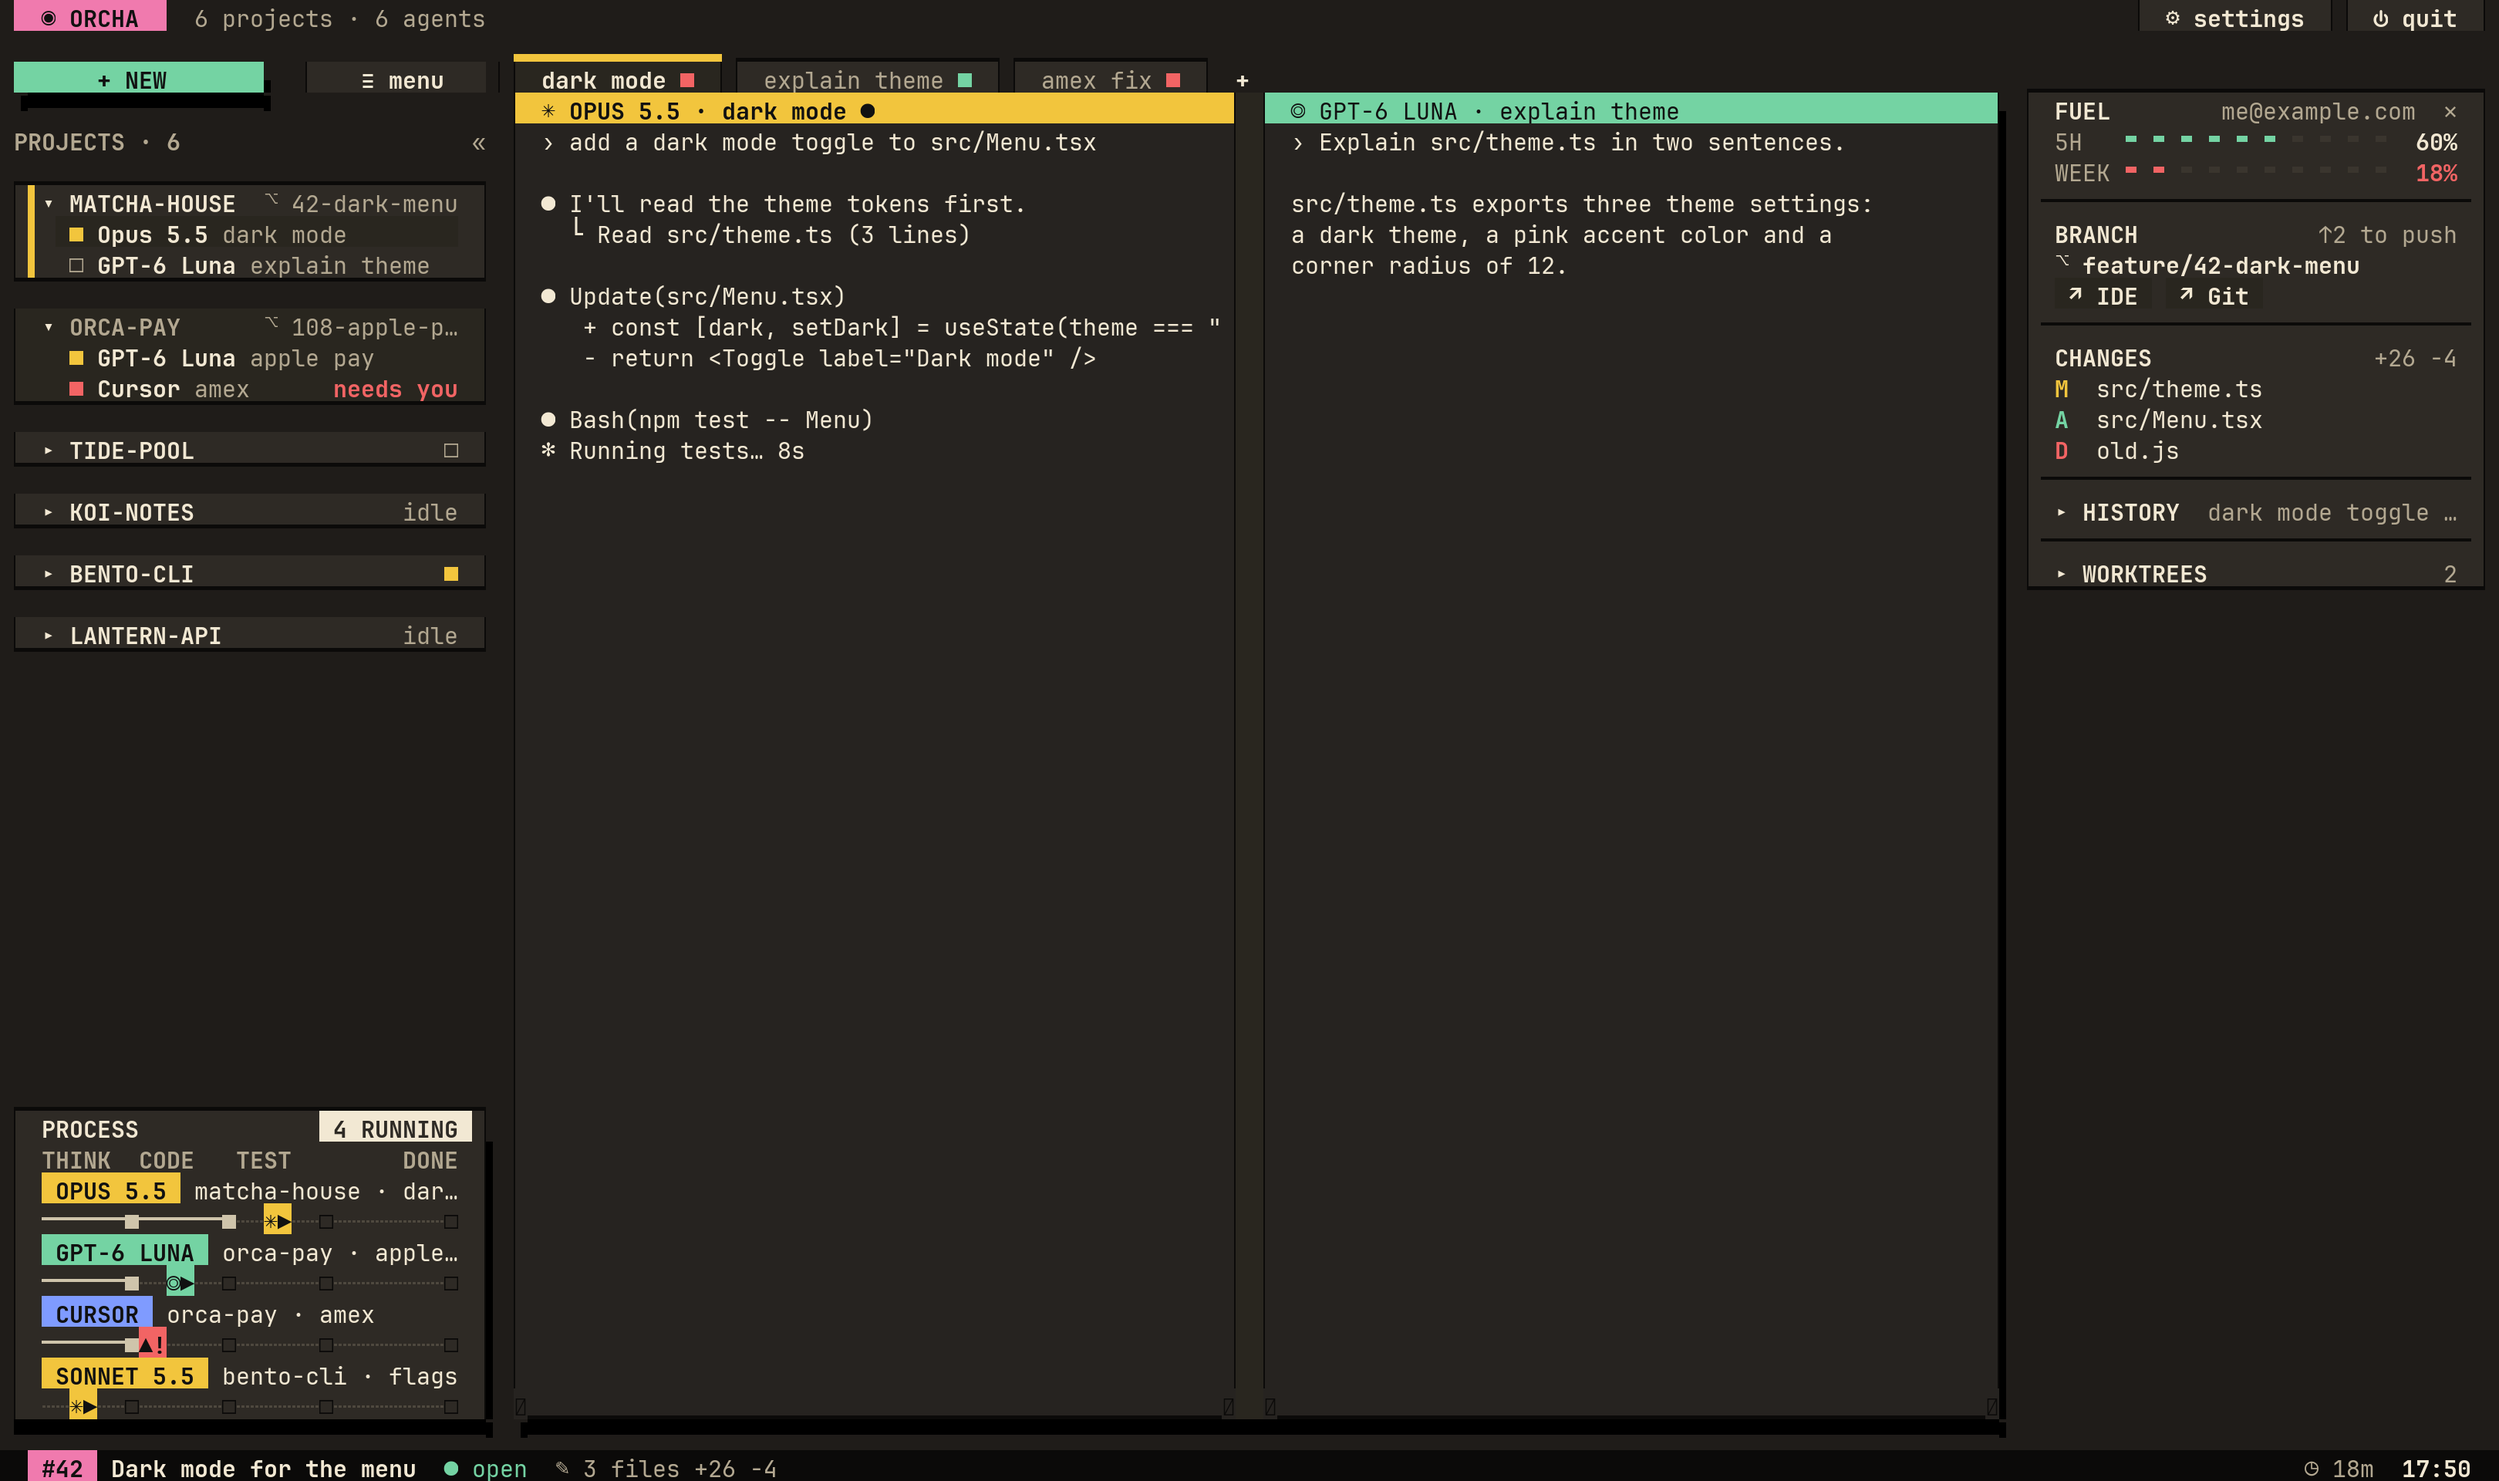
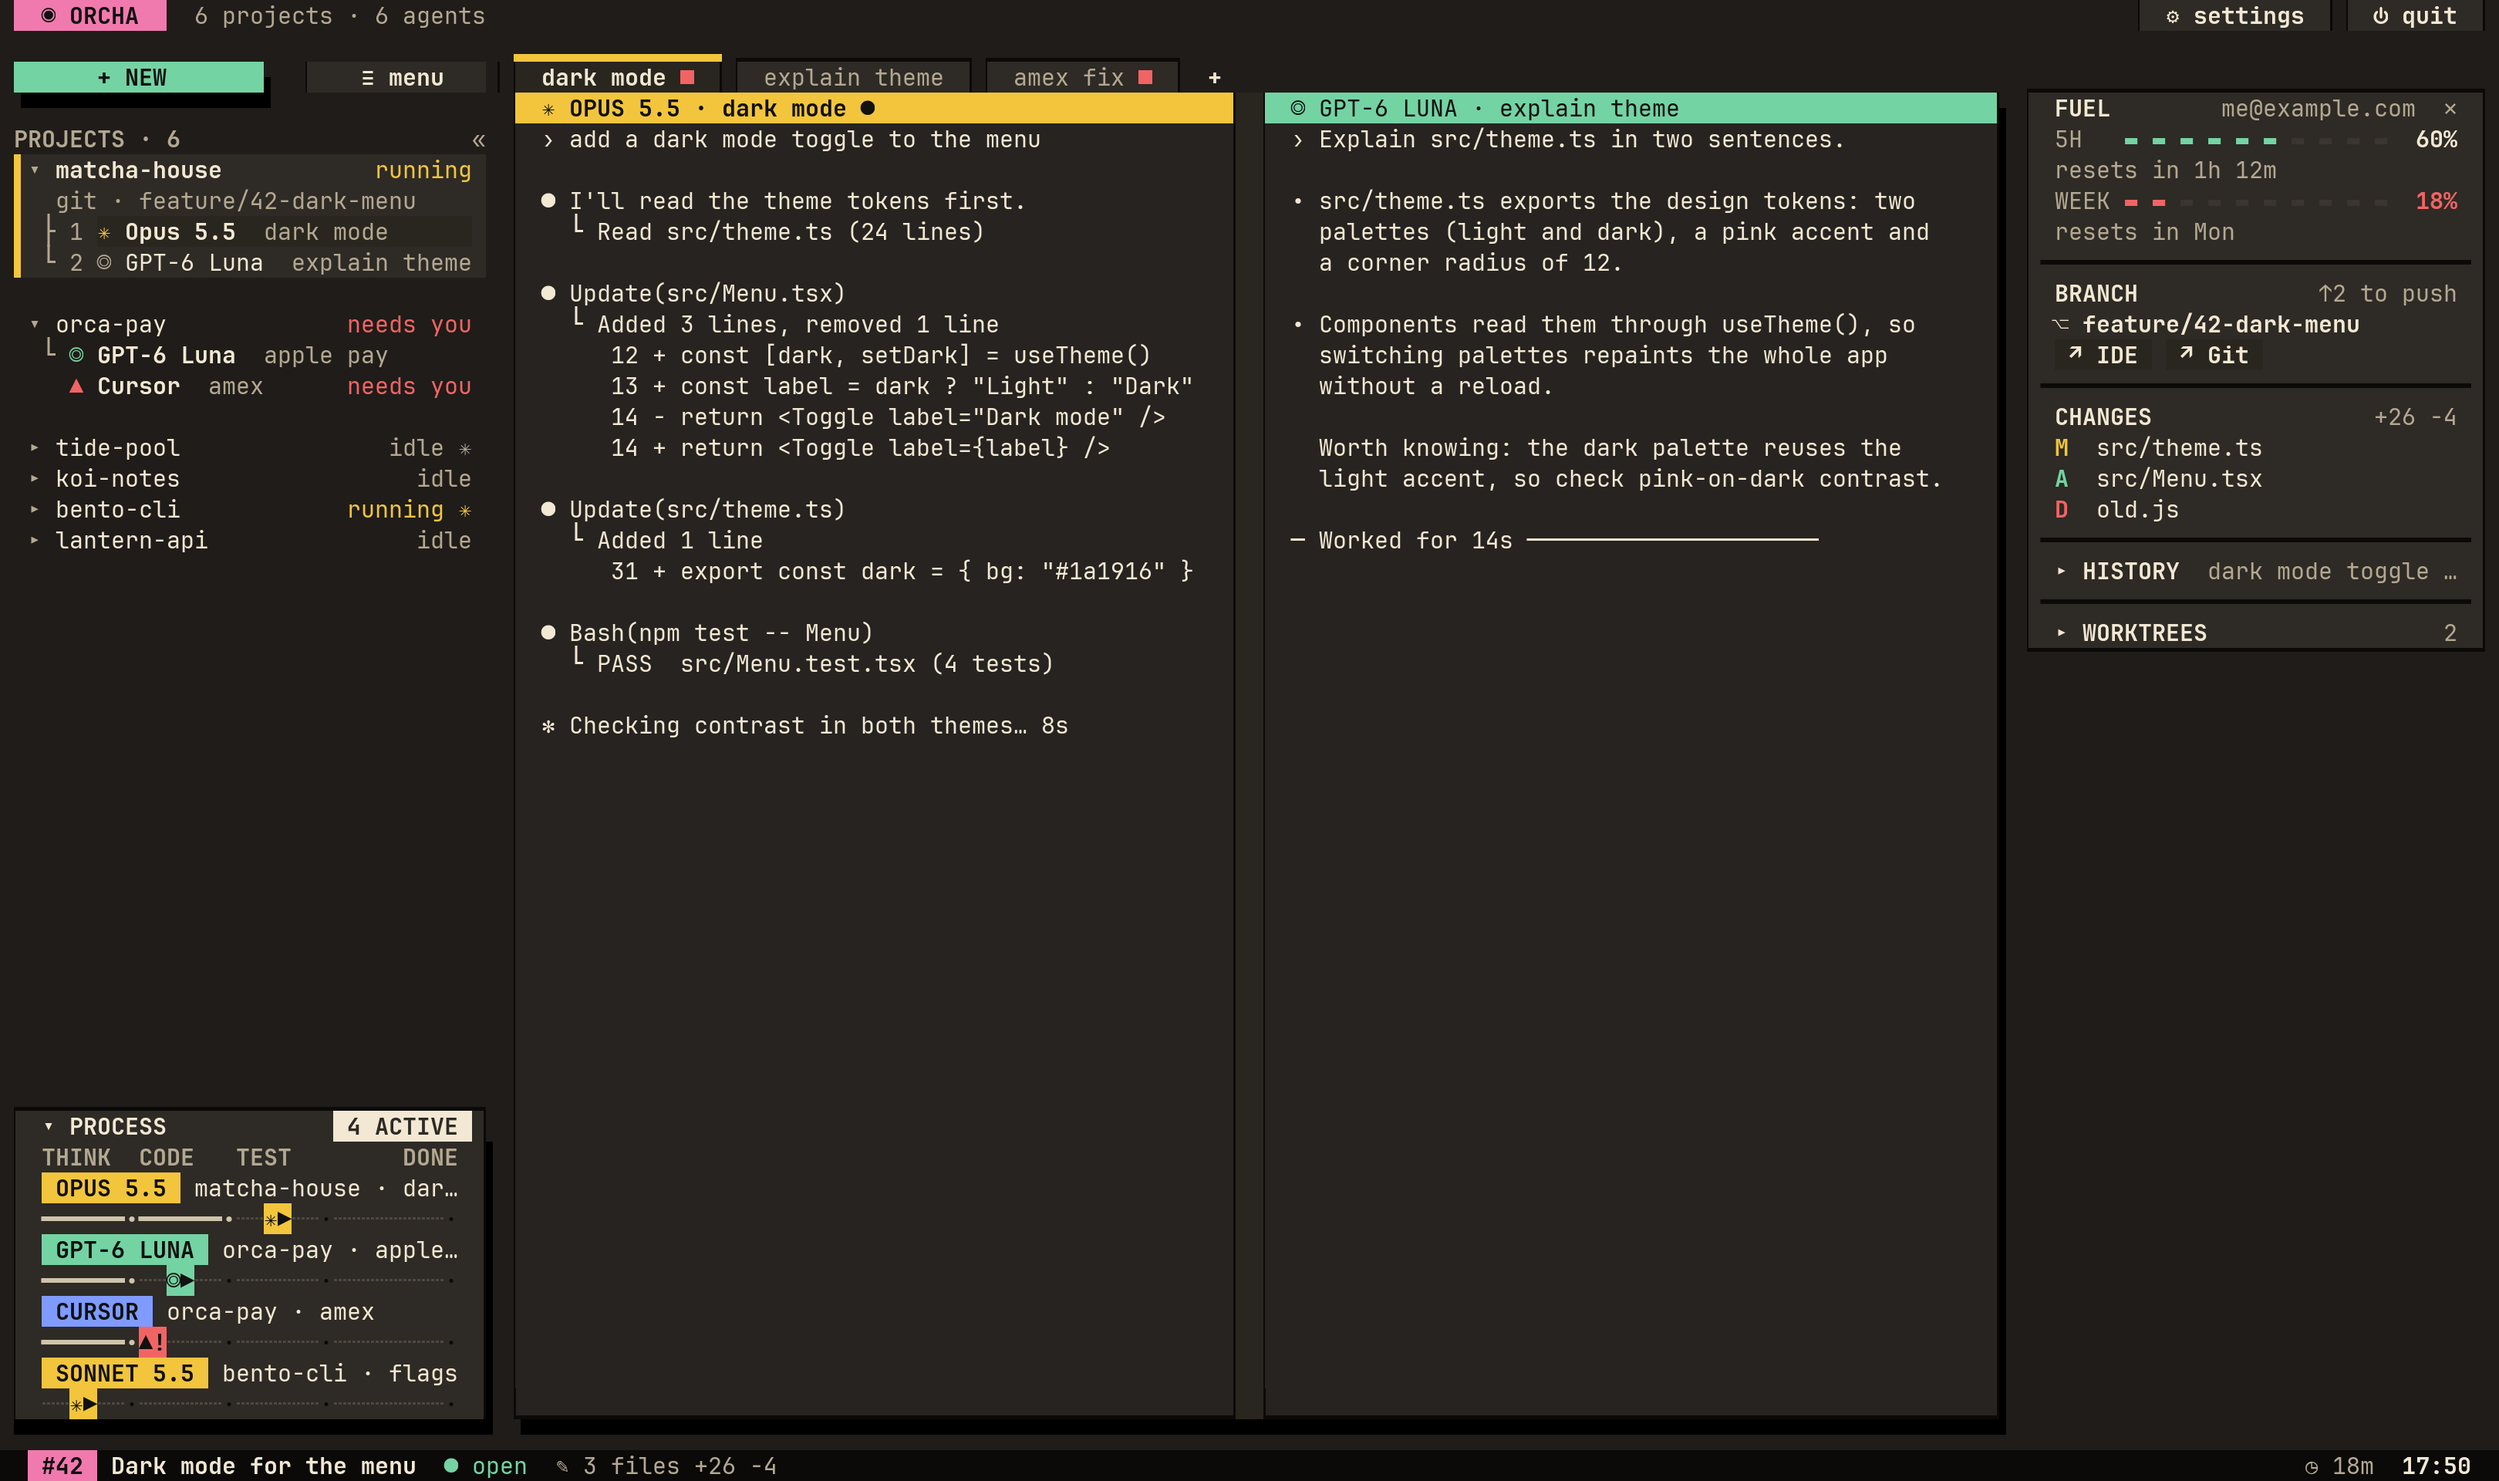
docs: fresh screenshots with the tab tree and open-with popup

diff --git a/src/client/shell/tests/orcha_layout.rs b/src/client/shell/tests/orcha_layout.rs
@@ -439,17 +439,26 @@ fn preview_surface(size: Rect) -> PaneSurfaceFrame {
             "pane_1",
             Rect::new(0, 0, half.saturating_sub(1), size.height),
             vec![
-                "› add a dark mode toggle to src/Menu.tsx",
+                "› add a dark mode toggle to the menu",
                 "",
                 "● I'll read the theme tokens first.",
-                "  └ Read src/theme.ts (3 lines)",
+                "  └ Read src/theme.ts (24 lines)",
                 "",
                 "● Update(src/Menu.tsx)",
-                "   + const [dark, setDark] = useState(theme === \"dark\")",
-                "   - return <Toggle label=\"Dark mode\" />",
+                "  └ Added 3 lines, removed 1 line",
+                "     12 + const [dark, setDark] = useTheme()",
+                "     13 + const label = dark ? \"Light\" : \"Dark\"",
+                "     14 - return <Toggle label=\"Dark mode\" />",
+                "     14 + return <Toggle label={label} />",
+                "",
+                "● Update(src/theme.ts)",
+                "  └ Added 1 line",
+                "     31 + export const dark = { bg: \"#1a1916\" }",
                 "",
                 "● Bash(npm test -- Menu)",
-                "✻ Running tests… 8s",
+                "  └ PASS  src/Menu.test.tsx (4 tests)",
+                "",
+                "✻ Checking contrast in both themes… 8s",
             ],
         ),
         (
@@ -463,9 +472,18 @@ fn preview_surface(size: Rect) -> PaneSurfaceFrame {
             vec![
                 "› Explain src/theme.ts in two sentences.",
                 "",
-                "src/theme.ts exports three theme settings:",
-                "a dark theme, a pink accent color and a",
-                "corner radius of 12.",
+                "• src/theme.ts exports the design tokens: two",
+                "  palettes (light and dark), a pink accent and",
+                "  a corner radius of 12.",
+                "",
+                "• Components read them through useTheme(), so",
+                "  switching palettes repaints the whole app",
+                "  without a reload.",
+                "",
+                "  Worth knowing: the dark palette reuses the",
+                "  light accent, so check pink-on-dark contrast.",
+                "",
+                "─ Worked for 14s ─────────────────────",
             ],
         ),
     ];
@@ -556,11 +574,13 @@ fn orcha_preview() {
     let mut second_tab = projected.tabs[0].clone();
     second_tab.tab_id = "tab_2".into();
     second_tab.label = "explain theme".into();
+    second_tab.number = 2;
     second_tab.focused = false;
     second_tab.agent_status = AgentStatus::Done;
     let mut third_tab = second_tab.clone();
     third_tab.tab_id = "tab_3".into();
     third_tab.label = "amex fix".into();
+    third_tab.number = 3;
     third_tab.agent_status = AgentStatus::Blocked;
     projected.tabs[0].label = "dark mode".into();
     projected.tabs[0].agent_status = AgentStatus::Working;
@@ -655,6 +675,11 @@ fn orcha_preview() {
             false,
         ),
     ];
+    // the explain chat runs in the project's second tab
+    projected.agents[1].tab_id = "tab_2".into();
+    for pane in projected.panes.iter_mut().filter(|pane| pane.pane_id == "pane_2") {
+        pane.tab_id = "tab_2".into();
+    }
     projected.tab_bar_right = vec![
         ClientShellTabStatusSegment {
             text: "#42 Dark mode for the menu ● Open".into(),
@@ -738,6 +763,26 @@ fn orcha_preview() {
     ]));
     if std::env::var("ORCHA_PREVIEW_POPUP").is_ok() {
         state.open_accounts_overlay();
+    }
+    if std::env::var("ORCHA_PREVIEW_OPEN_WITH").is_ok() {
+        use crate::client::shell::orcha_popup::{OpenChoice, OrchaPopup};
+        let editor = |name: &str| OpenChoice::Editor {
+            name: name.into(),
+            command: format!("open -a '{name}' {{path}}"),
+        };
+        state.orcha_ui.popup = Some(OrchaPopup::OpenWith {
+            selected: 0,
+            path: "/tmp/matcha-house/docs/dark-menu.png".into(),
+            line: 1,
+            extension: "png".into(),
+            choices: vec![
+                OpenChoice::System,
+                editor("Cursor"),
+                editor("Zed"),
+                OpenChoice::Reveal,
+            ],
+            remember: true,
+        });
     }
     state.git_panel.set_for_test(Some(GitPanelData {
         root: "/tmp/matcha-house".into(),

diff --git a/scripts/render-orcha-preview.py b/scripts/render-orcha-preview.py
@@ -1,0 +1,83 @@
+#!/usr/bin/env python3
+"""Render README screenshots from the orcha_preview test (fake demo data only).
+
+    ORCHA_PREVIEW_OUT=/tmp/dark.json ORCHA_PREVIEW_THEME=orcha-dark \
+        cargo test --bin herdr client::shell::tests::orcha_layout::orcha_preview -- --ignored --exact
+    python3 scripts/render-orcha-preview.py /tmp/dark.json docs/orcha/images/dark.png
+
+Themes: orcha (light), orcha-dark. ORCHA_PREVIEW_POPUP=1 adds CONTINUE ON,
+ORCHA_PREVIEW_OPEN_WITH=1 adds OPEN WITH. Needs Pillow, fontTools and
+JetBrains Mono in ~/Library/Fonts.
+"""
+import json, sys
+from PIL import Image, ImageDraw, ImageFont
+from fontTools.ttLib import TTFont
+
+src, out = sys.argv[1], sys.argv[2]
+j = json.load(open(src))
+W, H = j['width'], j['height']
+CW, CH, SIZE = 18, 40, 30
+FD = '/Users/hibari/Library/Fonts/'
+primary = {False: FD + 'JetBrainsMono-Regular.ttf', True: FD + 'JetBrainsMono-Bold.ttf'}
+fallbacks = ['/System/Library/Fonts/Menlo.ttc', '/System/Library/Fonts/Apple Symbols.ttf',
+             FD + 'Arial Unicode.ttf', '/System/Library/Fonts/Supplemental/Arial Unicode.ttf']
+cmaps = {}
+def has(path, ch):
+    if path not in cmaps:
+        try:
+            f = TTFont(path, fontNumber=0, lazy=True)
+            cmaps[path] = set(f.getBestCmap().keys())
+        except Exception:
+            cmaps[path] = set()
+    return ord(ch) in cmaps[path]
+fonts = {}
+def font(path, size=SIZE):
+    key = (path, size)
+    if key not in fonts:
+        fonts[key] = ImageFont.truetype(path, size, index=0)
+    return fonts[key]
+def pick(ch, bold):
+    if has(primary[bold], ch):
+        return font(primary[bold])
+    for path in fallbacks:
+        try:
+            if has(path, ch):
+                return font(path, int(SIZE * 0.9))
+        except OSError:
+            pass
+    return font(primary[bold])
+
+def col(v, d):
+    return '#%06x' % (v & 0xFFFFFF) if v >= 0x2000000 else d
+
+cells = j['cells']
+bg0 = col(cells[0][2], '#1a1916')
+img = Image.new('RGB', (W * CW, H * CH), bg0)
+d = ImageDraw.Draw(img)
+BLOCKS = {'▀': (0, 0, 1, .5), '▄': (0, .5, 1, 1), '▌': (0, 0, .5, 1), '▐': (.5, 0, 1, 1),
+          '█': (0, 0, 1, 1), '▏': (0, 0, .125, 1), '▕': (.875, 0, 1, 1),
+          '▖': (0, .5, .5, 1), '▗': (.5, .5, 1, 1), '▘': (0, 0, .5, .5), '▝': (.5, 0, 1, .5), '▁': (0, .875, 1, 1), '▔': (0, 0, 1, .125)}
+for y in range(H):
+    for x in range(W):
+        s, fg, bg, m = cells[y * W + x]
+        X, Y = x * CW, y * CH
+        bgc = col(bg, bg0)
+        fgc = col(fg, '#ece6d6')
+        if m & 0x40:  # reversed
+            bgc, fgc = fgc, bgc
+        d.rectangle([X, Y, X + CW - 1, Y + CH - 1], fill=bgc)
+        if not s.strip():
+            continue
+        if s in ('\U0001FB7C', '\U0001FB7F'):  # corner: side eighth + bottom eighth
+            left = s == '\U0001FB7C'
+            d.rectangle([X if left else X + CW * .875, Y, X + CW * .125 if left else X + CW - 1, Y + CH - 1], fill=fgc)
+            d.rectangle([X, Y + CH * .875, X + CW - 1, Y + CH - 1], fill=fgc)
+            continue
+        if s in BLOCKS:  # draw block elements exactly so edges meet
+            a, b, c, e = BLOCKS[s]
+            d.rectangle([X + a * CW, Y + b * CH, X + c * CW - 1, Y + e * CH - 1], fill=fgc)
+            continue
+        f = pick(s[0], bool(m & 1))
+        d.text((X + CW / 2, Y + CH / 2), s, fill=fgc, font=f, anchor='mm')
+img.save(out, optimize=True)
+print(out, img.size)

diff --git a/README.md b/README.md
@@ -62,9 +62,16 @@ Then run `orcha` inside a project. Your agent sign-ins are picked up automatical
 - **Git beside the work.** Branch, changes and history in the side panel, one click to your IDE or Git app.
 - **Agents outlive the window.** Quit orcha and they keep running; `orcha` brings you straight back.
 
-<p align="center">
-  <img src="docs/orcha/images/continue-on.png" alt="the CONTINUE ON popup: accounts with their fuel, the best one marked" width="80%" />
-</p>
+<table>
+  <tr>
+    <td width="50%"><img src="docs/orcha/images/continue-on.png" alt="CONTINUE ON: accounts with their fuel, the best next one marked" /></td>
+    <td width="50%"><img src="docs/orcha/images/open-with.png" alt="OPEN WITH: pick the app for a file type once" /></td>
+  </tr>
+  <tr>
+    <td align="center"><sub><b>CONTINUE ON</b> · the chat moves on when an account runs low</sub></td>
+    <td align="center"><sub><b>OPEN WITH</b> · choose an app per file type, once</sub></td>
+  </tr>
+</table>
 
 ## Commands
 
